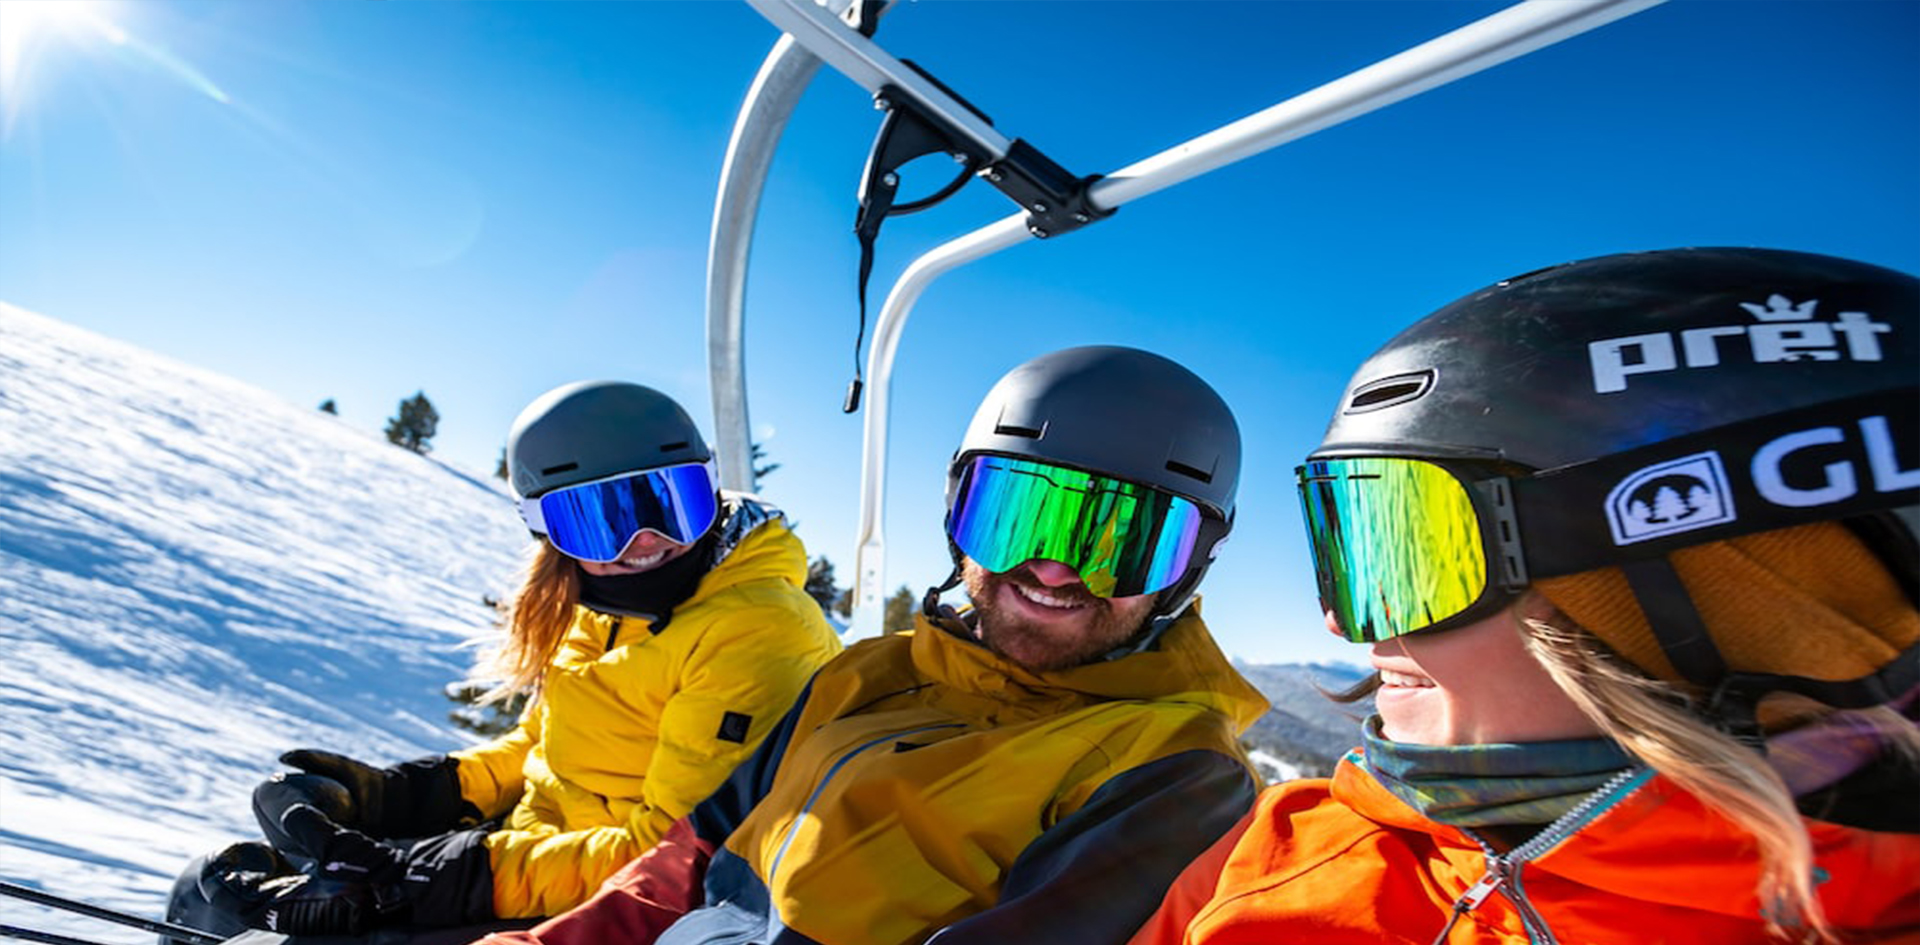
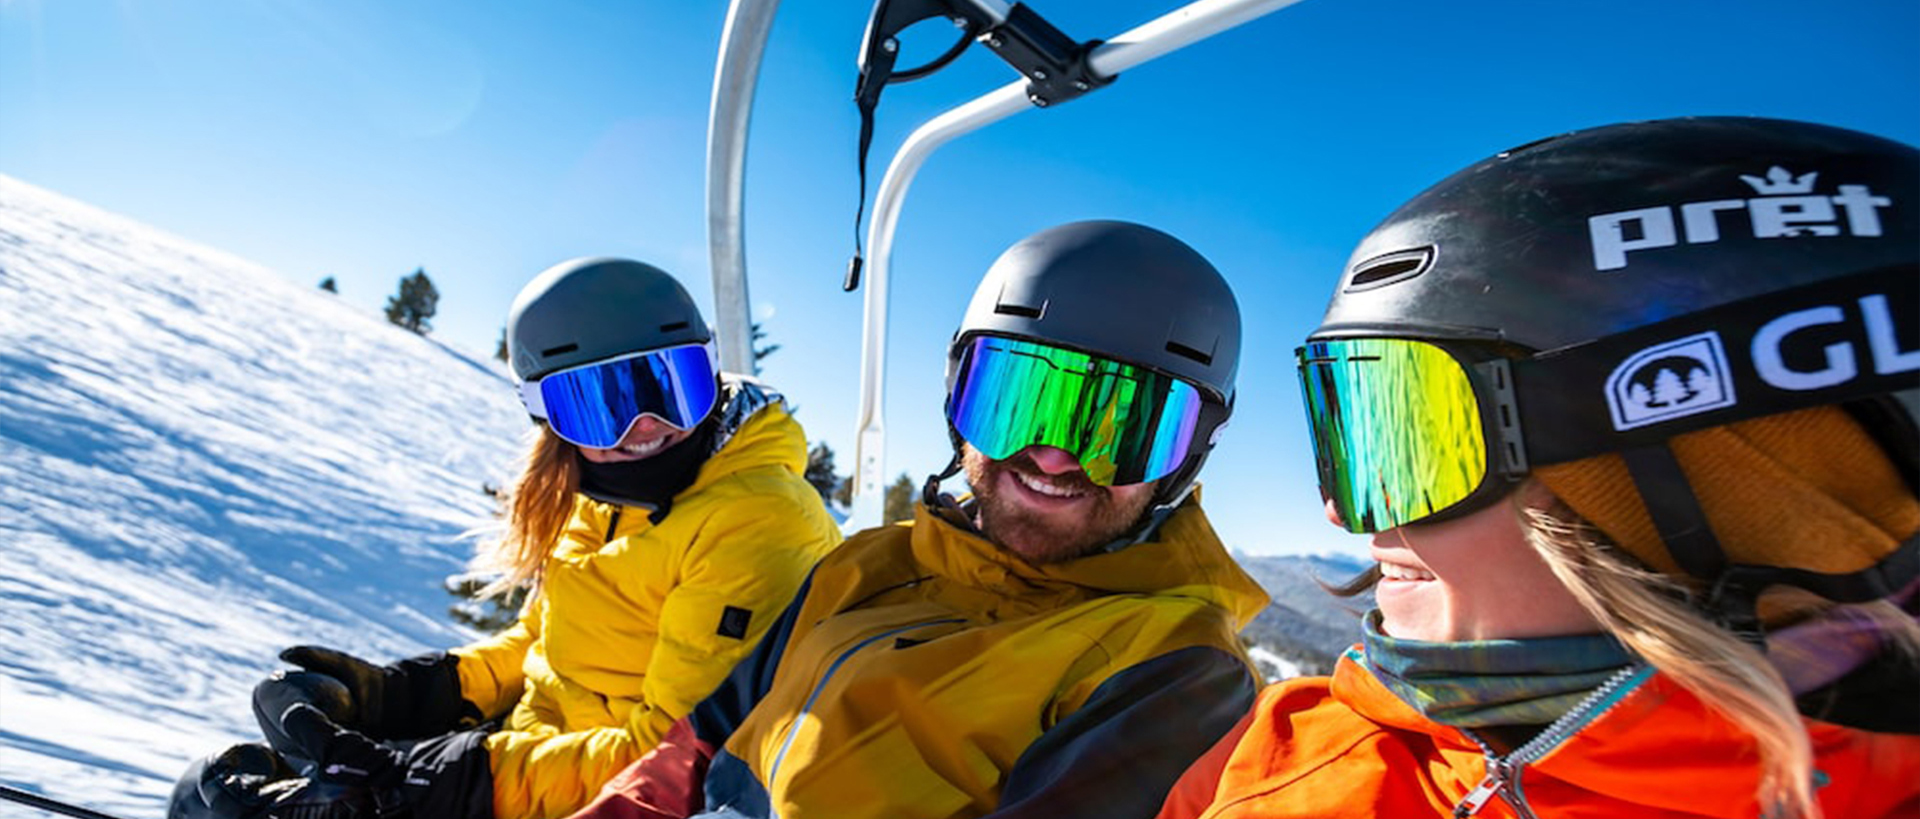
haciendo responsive el home y agregando mas estilo

diff --git a/public/index.css b/public/index.css
@@ -13,7 +13,7 @@
 }*/
 
 .slider{
-  /*width: 800px;*/
+  width: 100%;
   overflow: hidden;
   
 }
@@ -32,7 +32,7 @@
 }
 
 .slide img{
-  /*width: 800px;*/
+  width: 100%;
 }
 
 .navigation-manual{
@@ -250,7 +250,7 @@ footer div i,h4,a{
 }
 
 .single-product{
-  width: 1080px;
+  width: 95%;
   position: relative;
 }
 /** Breadcrumb **/
